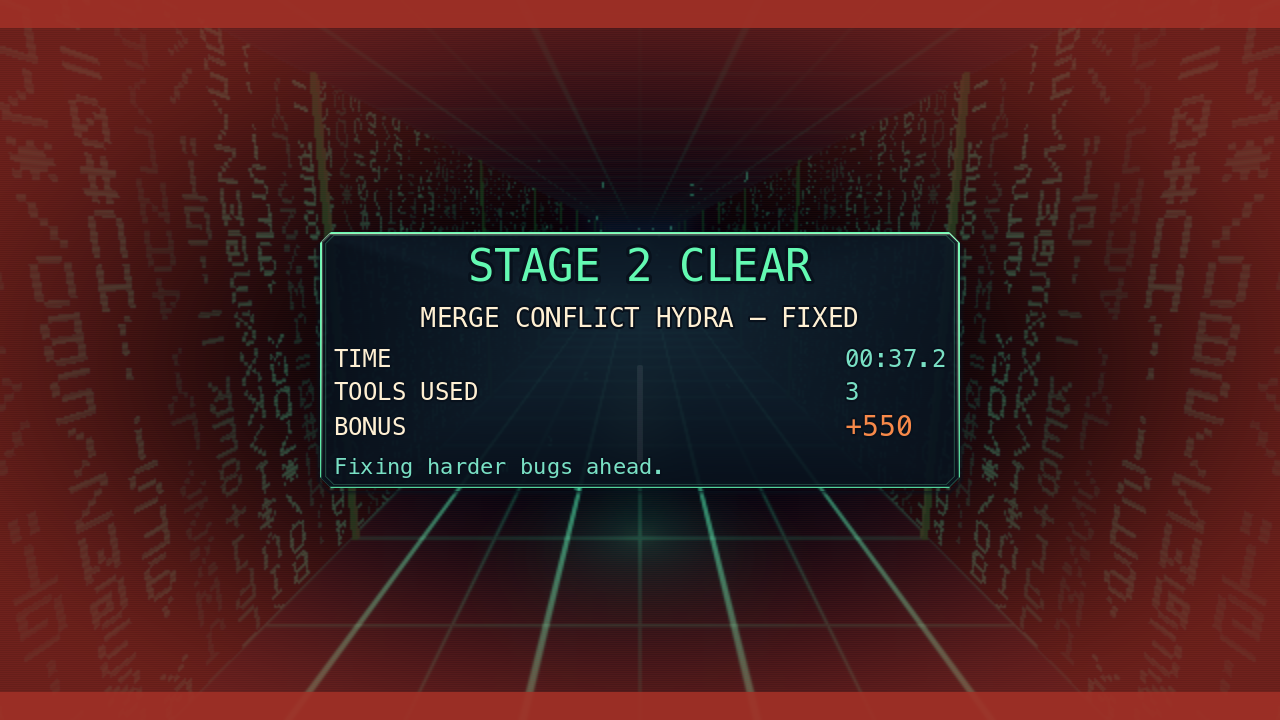
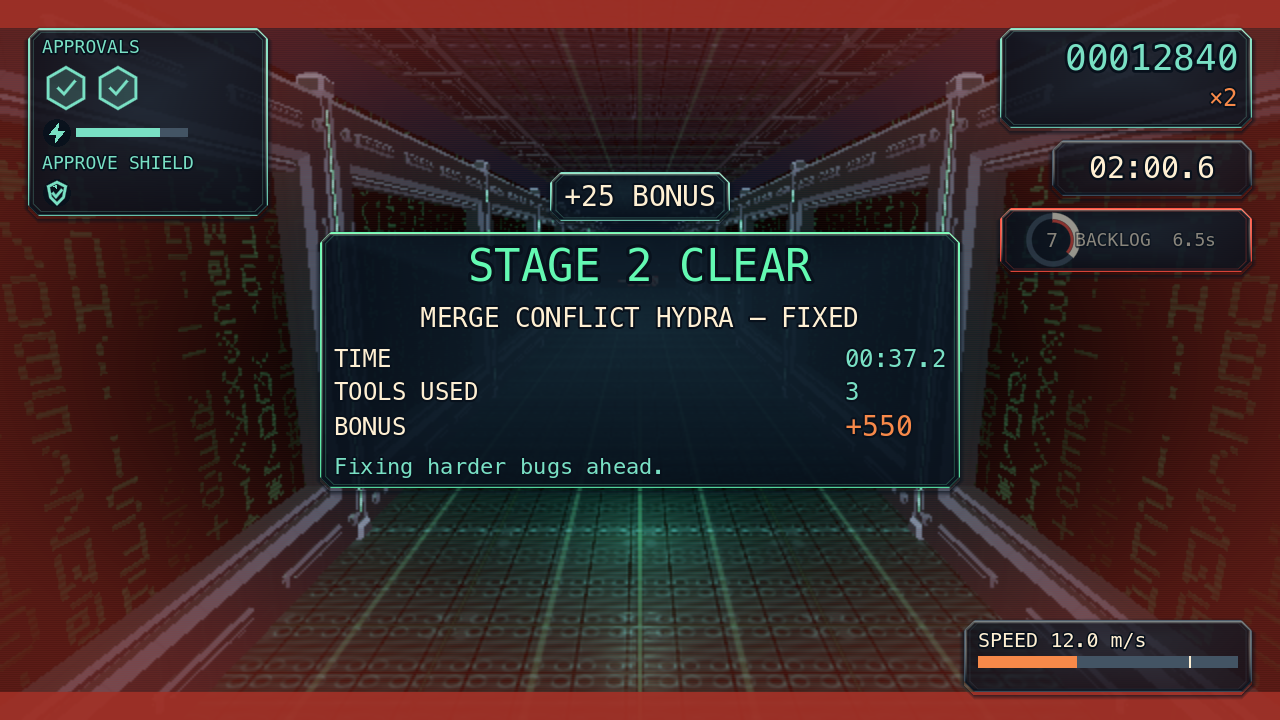
feat(runner/ui): move the boss plate and intro card into the top HUD band; timer and BACKLOG countdown under the score plate
Player feedback: the boss HP plate sat over the corridor's vanishing point and hid what was coming. The plate is now docked top-centre (y 8-64 at 1280x720), the boss intro card uses the same column (y 48-128, above A9's letterbox) and hands over to the plate on boss_spawned; the timer and the pursuit BACKLOG countdown moved under the score plate on the right, so the central viewing region (x 300-980, y 130-480) holds nothing persistent. a7_check asserts the top-band bounds, the clear centre and pairwise non-intersection of every panel at 1280x720 and 1440x900 (1015 checks); capture_a7 views and the main previews are re-captured.

Host: ASSET A7 PASS (1015), ASSET A9 PASS (147), scaffold 360, visual smoke PASS (HUD LEGIBILITY 55, BOSS INTRO, full loop), smoke 130, ASSET A7 CAPTURE PASS, PREVIEW CAPTURE PASS. CodeRabbit: 0 findings.

diff --git a/docs/endless-runner.md b/docs/endless-runner.md
@@ -49,6 +49,8 @@ The menu calls the AppRouter singleton directly: Play -> `go("runner_game")`, Re
 
 HUD is on layer 10, PauseMenu 21 and GameOver 22. HUD listens to facade signals, uses responsive margins, counts up score, displays effects and pursuit, dims on pause and hides gameplay widgets on caught. Backend owns damage camera shake. Pause has no ui_cancel handler. Game Over appears only on run_finished, shows result stats and the local top ten, and saves qualifying names through the facade. Save success locks the name field and focuses Retry; failure stays editable. Retry creates a fresh scene. The mock scene demonstrates the same signals in 40 seconds with in-memory persistence.
 
+Player feedback identified the boss name, HP plate and intro card as blocking the corridor vanishing point. Both now share the top-centre slot at x=300..980: the boss plate occupies y=8..64 with a 10-unit HP track, and the intro card occupies y=48..128 with a compact warning/title row and an 18-unit taunt row. Its 48-unit top inset clears the existing cinematic letterbox while remaining wholly above y=130. They are mutually exclusive through the existing three-second intro and spawned-boss handover. The score plate is narrowed to x=1000..1252, with the timer below it at y=140..196 and BACKLOG below that at y=208..272; APPROVALS stays on the left. This keeps the central x=300..980, y=130..480 viewing region clear of persistent boss widgets, preserves outlined panel-backed type, and leaves the turn warning at y=536 clear of the pursuit alert. Stage-banner and stage-clear timing and layout are unchanged. Headless checks measure final container rects at 1280x720 and 1440x900 against proportionally scaled viewing bounds and check every panel pair, with only the mutually exclusive boss cards allowed to overlap. Existing capture view names are retained for coordinator overwrite of the A7 PNGs.
+
 Hoppy supplies seven animations and every player visual hook, retains feet at y=0, stands 1.8 m and rolls within 0.9 m. Hurt returns to previous locomotion unless interrupted. Hazards implement all eight kinds and every variant; collision artwork stays within the 110% envelope, while ground projections use exact hitbox footprints. Power-ups supply six types with spin/bob/collection reactions. The pursuer uses threat-driven cards, a 1.4 s catch and 0.7 s retreat. Shared resources are duplicated before mutation. Cosmetic clocks and particles inherit pause.
 
 The corridor scrolls shaders and recycles 24 pillars over 96 m. Its per-viewport ownership stack restores the previous 3D scale and scaling mode after overlapping menu/game corridors exit. The backend replaces its graybox environment with the mounted corridor. Standalone development fixtures and package checks under `tests/assets/` are frontend-owned; other runner tests except `runner_visual_smoke.gd` remain backend-owned.
@@ -913,7 +915,7 @@ Frontend-only implementation of contract 2.1, sections 11.4, 11.9 and 11.10. No 
 - `turn_incoming(direction, seconds)` opens an outlined 42-unit orange warning in a DANGER-bordered panel above the lane reading area. The arrow and remaining-seconds countdown pulse over the supplied duration. One reusable additive MultiMesh draws chevrons in all three lanes. HUD binding mounts it directly under the frontend corridor, inheriting its transform. `turn_started` clears the floor chevrons as the end wall takes over; `turn_finished` clears the banner and pending warning audio.
 - Corridor yaw reaches 55 degrees at progress 0.3, holds through 0.7, then returns to zero at 1.0. Curvature peaks at 0.010. `TURN_SWING_IN`, `TURN_SWING_OUT` and `TURN_YAW` in `corridor.gd` mirror RunConfig defaults and must stay in sync with the backend camera. The end wall spans the corridor and carries a 120-unit directional TURN face. Glyphs sweep laterally, rain accelerates and speed lines intensify in the hold. Endpoints and explicit `(0, 0)` reset restore the same pose.
 - The turn preview mirrors the backend camera swing: positive direction applies positive yaw and bank, orbiting the player at (0, 0, 0), with 55° yaw, 12° bank, and 0.3 ramp-in/out fractions. Hold alignment is checked in both directions at p = 0.3/0.5/0.7.
-- `boss_intro(kind, name, seconds)` opens a top-centre card at y 140 with width at most 900, below the top HUD panels. It displays `WARNING · BUG DETECTED`, the supplied boss name at 52 units, and a kind-specific taunt typed over one second. Copy is centralized in `boss_hud.gd:TAUNTS`; unknown kinds show only the supplied name. The stage banner stays suppressed, and the health HUD slides in only after the supplied duration. Pause freezes the card and entrance.
+- `boss_intro(kind, name, seconds)` opens a top-centre card at x=300..980, y=48..128 at 1280x720. It displays `WARNING · BUG DETECTED`, the supplied boss name at 24 units, and a kind-specific taunt typed over one second. Copy is centralized in `boss_hud.gd:TAUNTS`; unknown kinds show only the supplied name. The stage banner stays suppressed, and the health HUD slides in only after the supplied duration. Pause freezes the card and entrance.
 - Boss FX forwards the optional frontend `play_intro(seconds)` method to the mounted visual. It resolves `World/TurnRig/BossArena/Boss` first because the facade mirrors `boss` only at the subsequent `boss_spawned` signal; mock facades use the property fallback. Swarm tiles assemble from the vanishing point, Hydra rises and unfurls three heads, and Monolith approaches from the far end before a slam. A DANGER vignette and screen flash accent the impact at 80% of the intro. No frontend code calls camera shake. Every entrance frame keeps x within [-3.5, 3.5] and y within [1.6, 6.1]. Only depth travel toward the far end is allowed, never closer than hover_z + 3. Swarm tiles converge along -Z, Hydra unfolds from a compressed above-floor pose, and Monolith slides along -Z. Transforms reset at the duration boundary.
 - Audio has 32 cached recipes. `turn_warning` contains three rising ticks scaled to the warning window. The hard-panned turn whoosh includes its snap at the 0.3 hold boundary. `boss_intro` is a deep rising drone and hit, scaled to the intro window. Intro music ducks by 12 dB, releasing into the existing 4 dB boss duck. The seven polyphonic plus three dedicated voice allocation remains capped at ten.
 - The mock demo emits both new signals, mounts its boss visual, and delays attacks until the three-second intro has elapsed. Smoke coverage includes `TURN WARNING: PASS` and `BOSS INTRO: PASS`, directional warnings, countdown, correct taunts, fallback copy, visual forwarding/poses, HP handover, banner suppression, pause, audio duck release and the revised turn profile.

diff --git a/docs/assets/a7.md b/docs/assets/a7.md
@@ -1,5 +1,9 @@
 # Asset A7: round 7
 
+Player feedback identified the boss name, HP plate and intro card as blocking the corridor vanishing point. Both now share the top-centre slot at x=300..980: the boss plate occupies y=8..64 with a 10-unit HP track, and the intro card occupies y=48..128 with a compact warning/title row and an 18-unit taunt row. Its 48-unit top inset clears the existing cinematic letterbox while remaining wholly above y=130. They are mutually exclusive through the existing three-second intro and spawned-boss handover. The score plate is narrowed to x=1000..1252, with the timer below it at y=140..196 and BACKLOG below that at y=208..272; APPROVALS stays on the left. This keeps the central x=300..980, y=130..480 viewing region clear of persistent boss widgets, preserves outlined panel-backed type, and leaves the turn warning at y=536 clear of the pursuit alert. Stage-banner and stage-clear timing and layout are unchanged. Headless checks measure final container rects at 1280x720 and 1440x900 against proportionally scaled viewing bounds and check every panel pair, with only the mutually exclusive boss cards allowed to overlap. Existing capture view names are retained for coordinator overwrite of the A7 PNGs.
+
+Reflow verification (2026-09-22, installed Godot `4.7.stable.official.5b4e0cb0f`): import and all five changed GDScript check-only commands exited 0; A7 passed 1,015 checks; A9 passed 147 checks; `HUD LEGIBILITY: PASS (55 labels checked)` remains unchanged. Visual smoke exited 2 only on `Codex name persists` and `temporary board contains saved run`, following sandbox `user://` write/rename errors 12/33. Runner smoke exited 3 with three leaderboard-persistence failures out of 127 checks. Import also reported the sandbox-blocked editor-settings save and startup certificate diagnostic. `git diff --check` passed. No graphical capture was run; the following round-7 results are historical.
+
 ## Blocker 1: palette-preserving portrait flicker
 
 `hoppys-adventure-arcade/scenes/runner/shaders/scanline_portrait.gdshader:9` replaces independent red/blue sampling with one RGB sample and a brief luminance pulse. Channel separation is now zero, below the requested half-pixel cap at every clock/threat value. Sampling is linear. The existing clock-driven scan/roll treatment and subdued DANGER rim remain; no TIME uniform is used.
